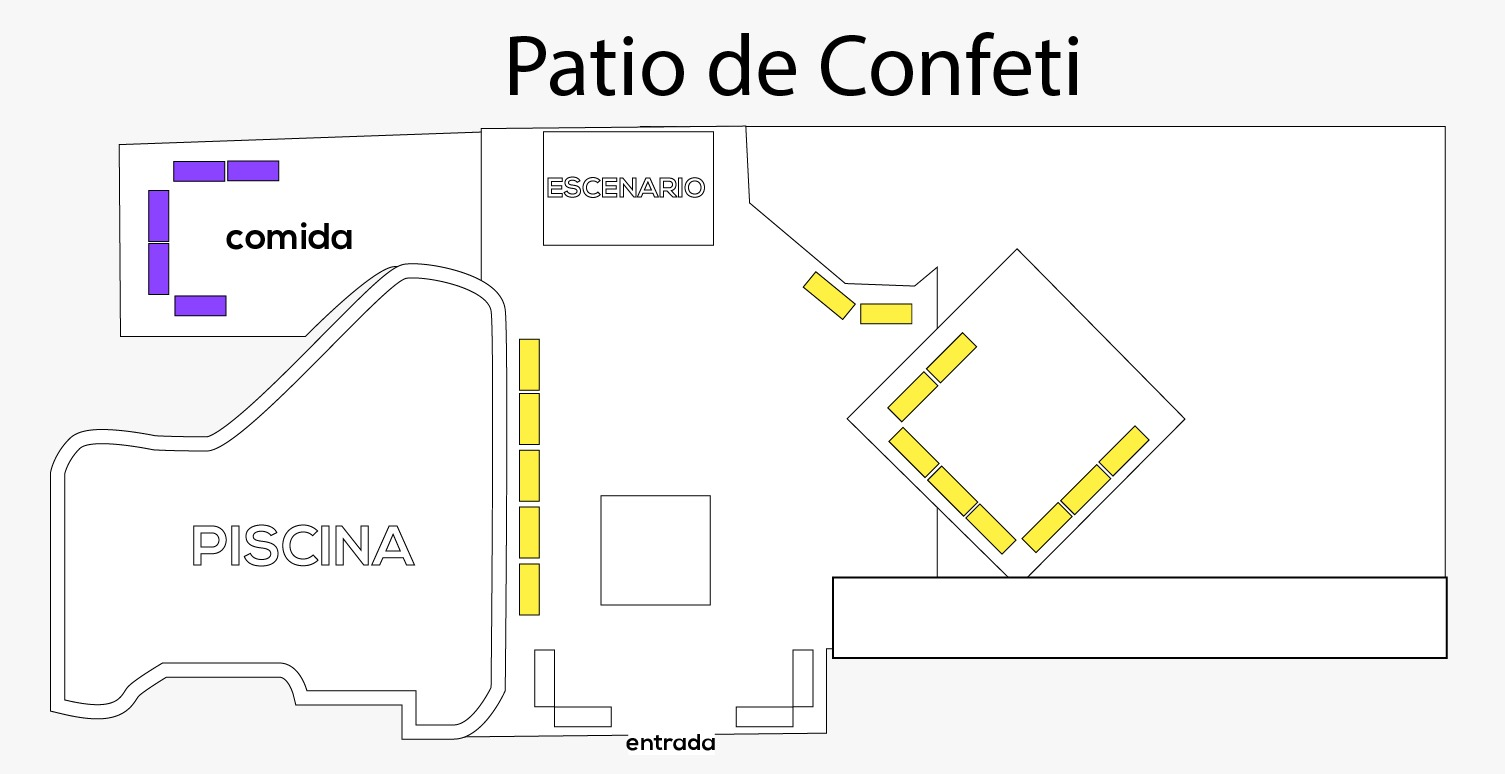
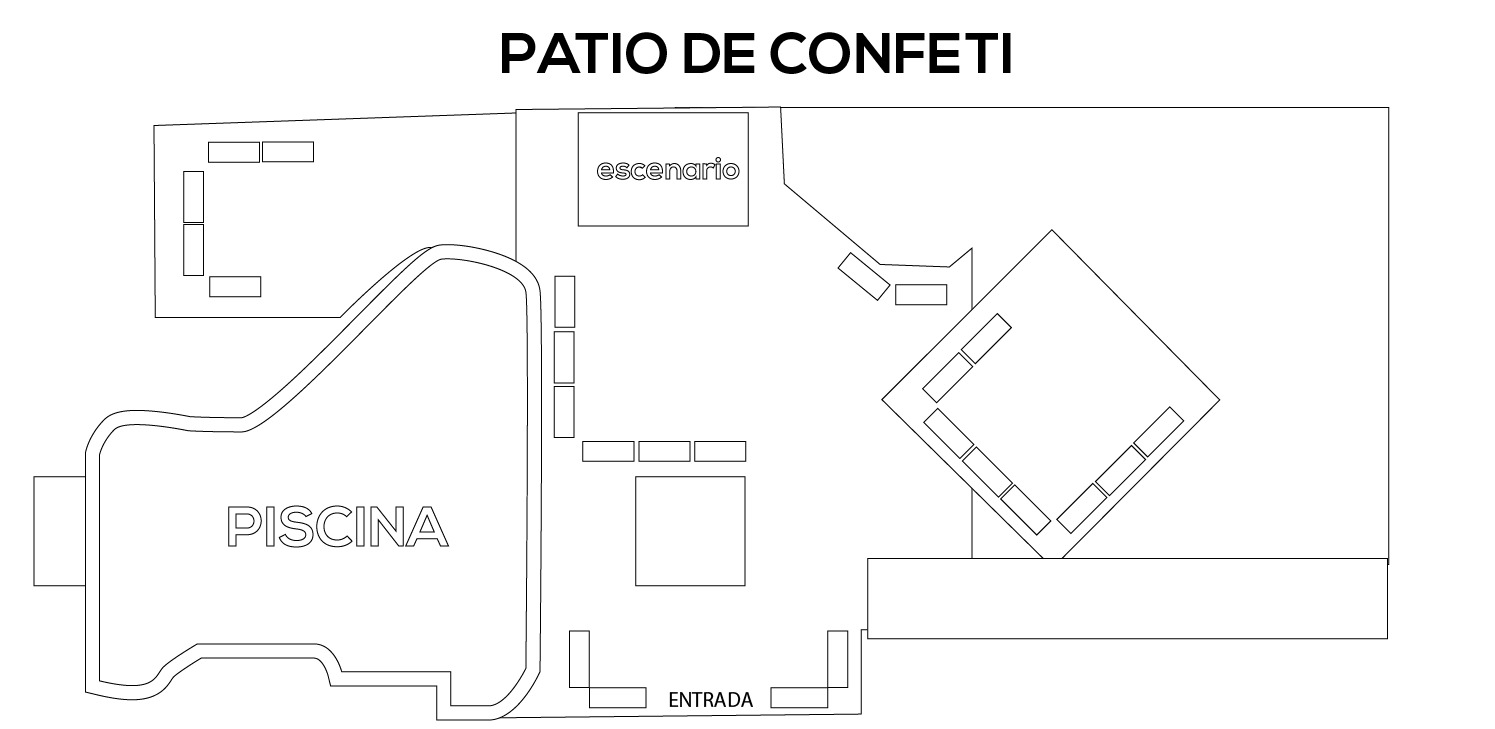
planos y agua

diff --git a/src/app/features/admin/mapa-svg/mapa-svg.html b/src/app/features/admin/mapa-svg/mapa-svg.html
@@ -178,7 +178,7 @@
 
       <label class="flex items-center gap-3 bg-white border-2 border-[#F4C453] rounded-2xl px-3 py-2 cursor-pointer">
         <input type="checkbox" [(ngModel)]="standSeleccionado.incluyeMerienda" class="w-5 h-5 accent-[#7B8E3D]">
-        <span class="text-sm font-bold text-[#2C221E]">Incluye merienda</span>
+        <span class="text-sm font-bold text-[#2C221E]">Incluye botella de agua</span>
       </label>
 
       <label class="flex items-center gap-3 bg-white border-2 border-[#F4C453] rounded-2xl px-3 py-2 cursor-pointer">
